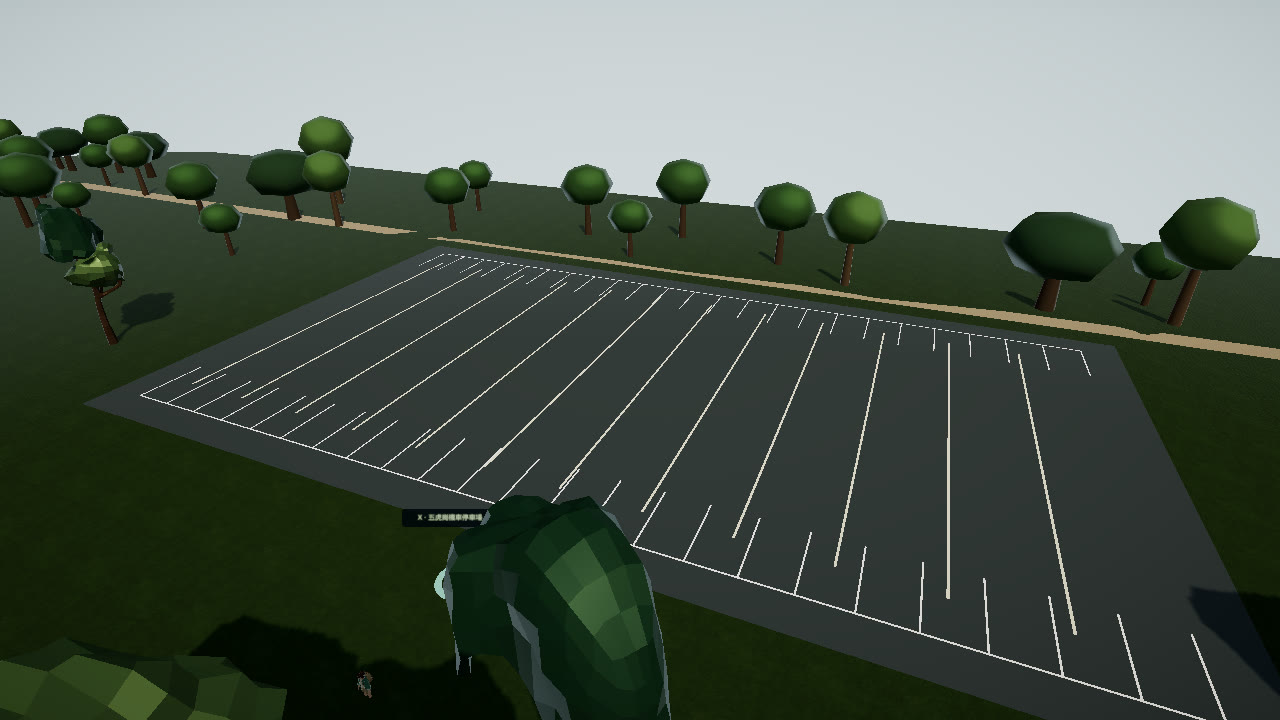
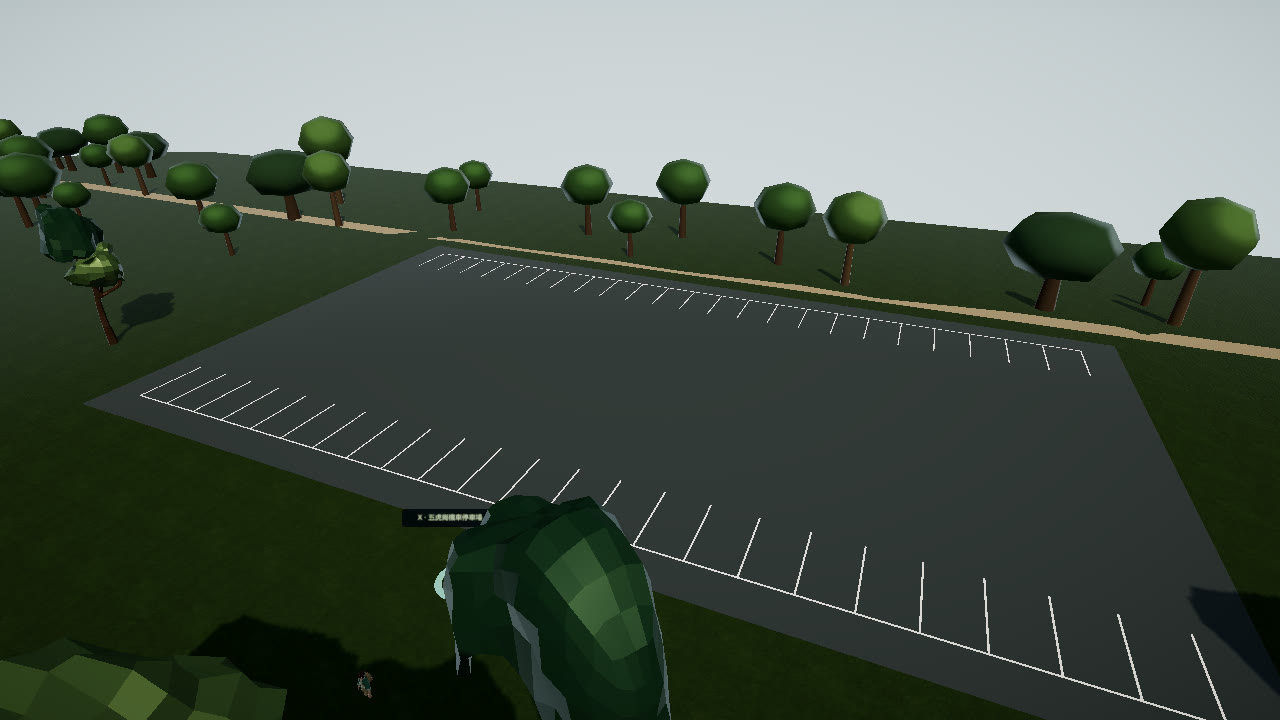
Remove the parking stripes that crossed the new aisle.
Twelve old lines ran 25.5 m through the centre of the lot and cut the scooter bays. The edge bays stay, and the aisle is unmarked.

diff --git a/src/game/world/ContextStructures.tsx b/src/game/world/ContextStructures.tsx
@@ -287,16 +287,6 @@ export function ContextStructures({
                   ))}
                 </>
               )}
-              {s.id === "parking" &&
-                Array.from({ length: 12 }, (_, i) => (
-                  <mesh
-                    key={i}
-                    position={[-s.size[0] / 2 + 4 + i * 4.5, 0.1, 0]}
-                  >
-                    <boxGeometry args={[0.12, 0.02, s.size[2] * 0.75]} />
-                    <meshBasicMaterial color="#e1d9b8" />
-                  </mesh>
-                ))}
             </group>
           );
         }

diff --git a/docs/art/STATUS.md b/docs/art/STATUS.md
@@ -429,7 +429,7 @@
 
 ## 階段：機車停車場車格（ART-067 的一部分）
 
-五虎崗機車停車場不再是一整片灰。南北兩排各 23 個車格，寬 2.4 m、深 4 m，中間留走道。線都在鋪面裡。田徑場仍是跑道環。車格尺寸仍是 estimated。閱讀的女孩、靠坡的長椅和花台留著。
+五虎崗機車停車場不再是一整片灰。南北兩排各 23 個車格，寬 2.4 m、深 4 m，中間走道不再畫線。貫穿中線的舊長條已拿掉。線都在鋪面裡。田徑場仍是跑道環。車格尺寸仍是 estimated。閱讀的女孩、靠坡的長椅和花台留著。
 
 畫面：`docs/art/evidence/courts/parking.jpg`。測試：`scripts/court-lines.test.mjs`。
 

diff --git a/docs/art/HANDOFF.md b/docs/art/HANDOFF.md
@@ -5,7 +5,7 @@
 
 ## 本輪（機車停車場車格）
 
-- 停車場南北邊緣各 23 個寬 2.4 m、深 4 m 的車格，中間走道沒有線。線都在鋪面裡。
+- 停車場南北邊緣各 23 個寬 2.4 m、深 4 m 的車格，中間走道沒有線。貫穿中線的舊長條已拿掉。線都在鋪面裡。
 - 沒有新增音效。車格尺寸仍是 estimated。閱讀的女孩、靠坡的長椅、花台、松濤二館、教育館、室內南門、天花板、車阻、田徑場內圈和坡道欄杆留著。
 
 ## 本輪（閱讀的女孩）
